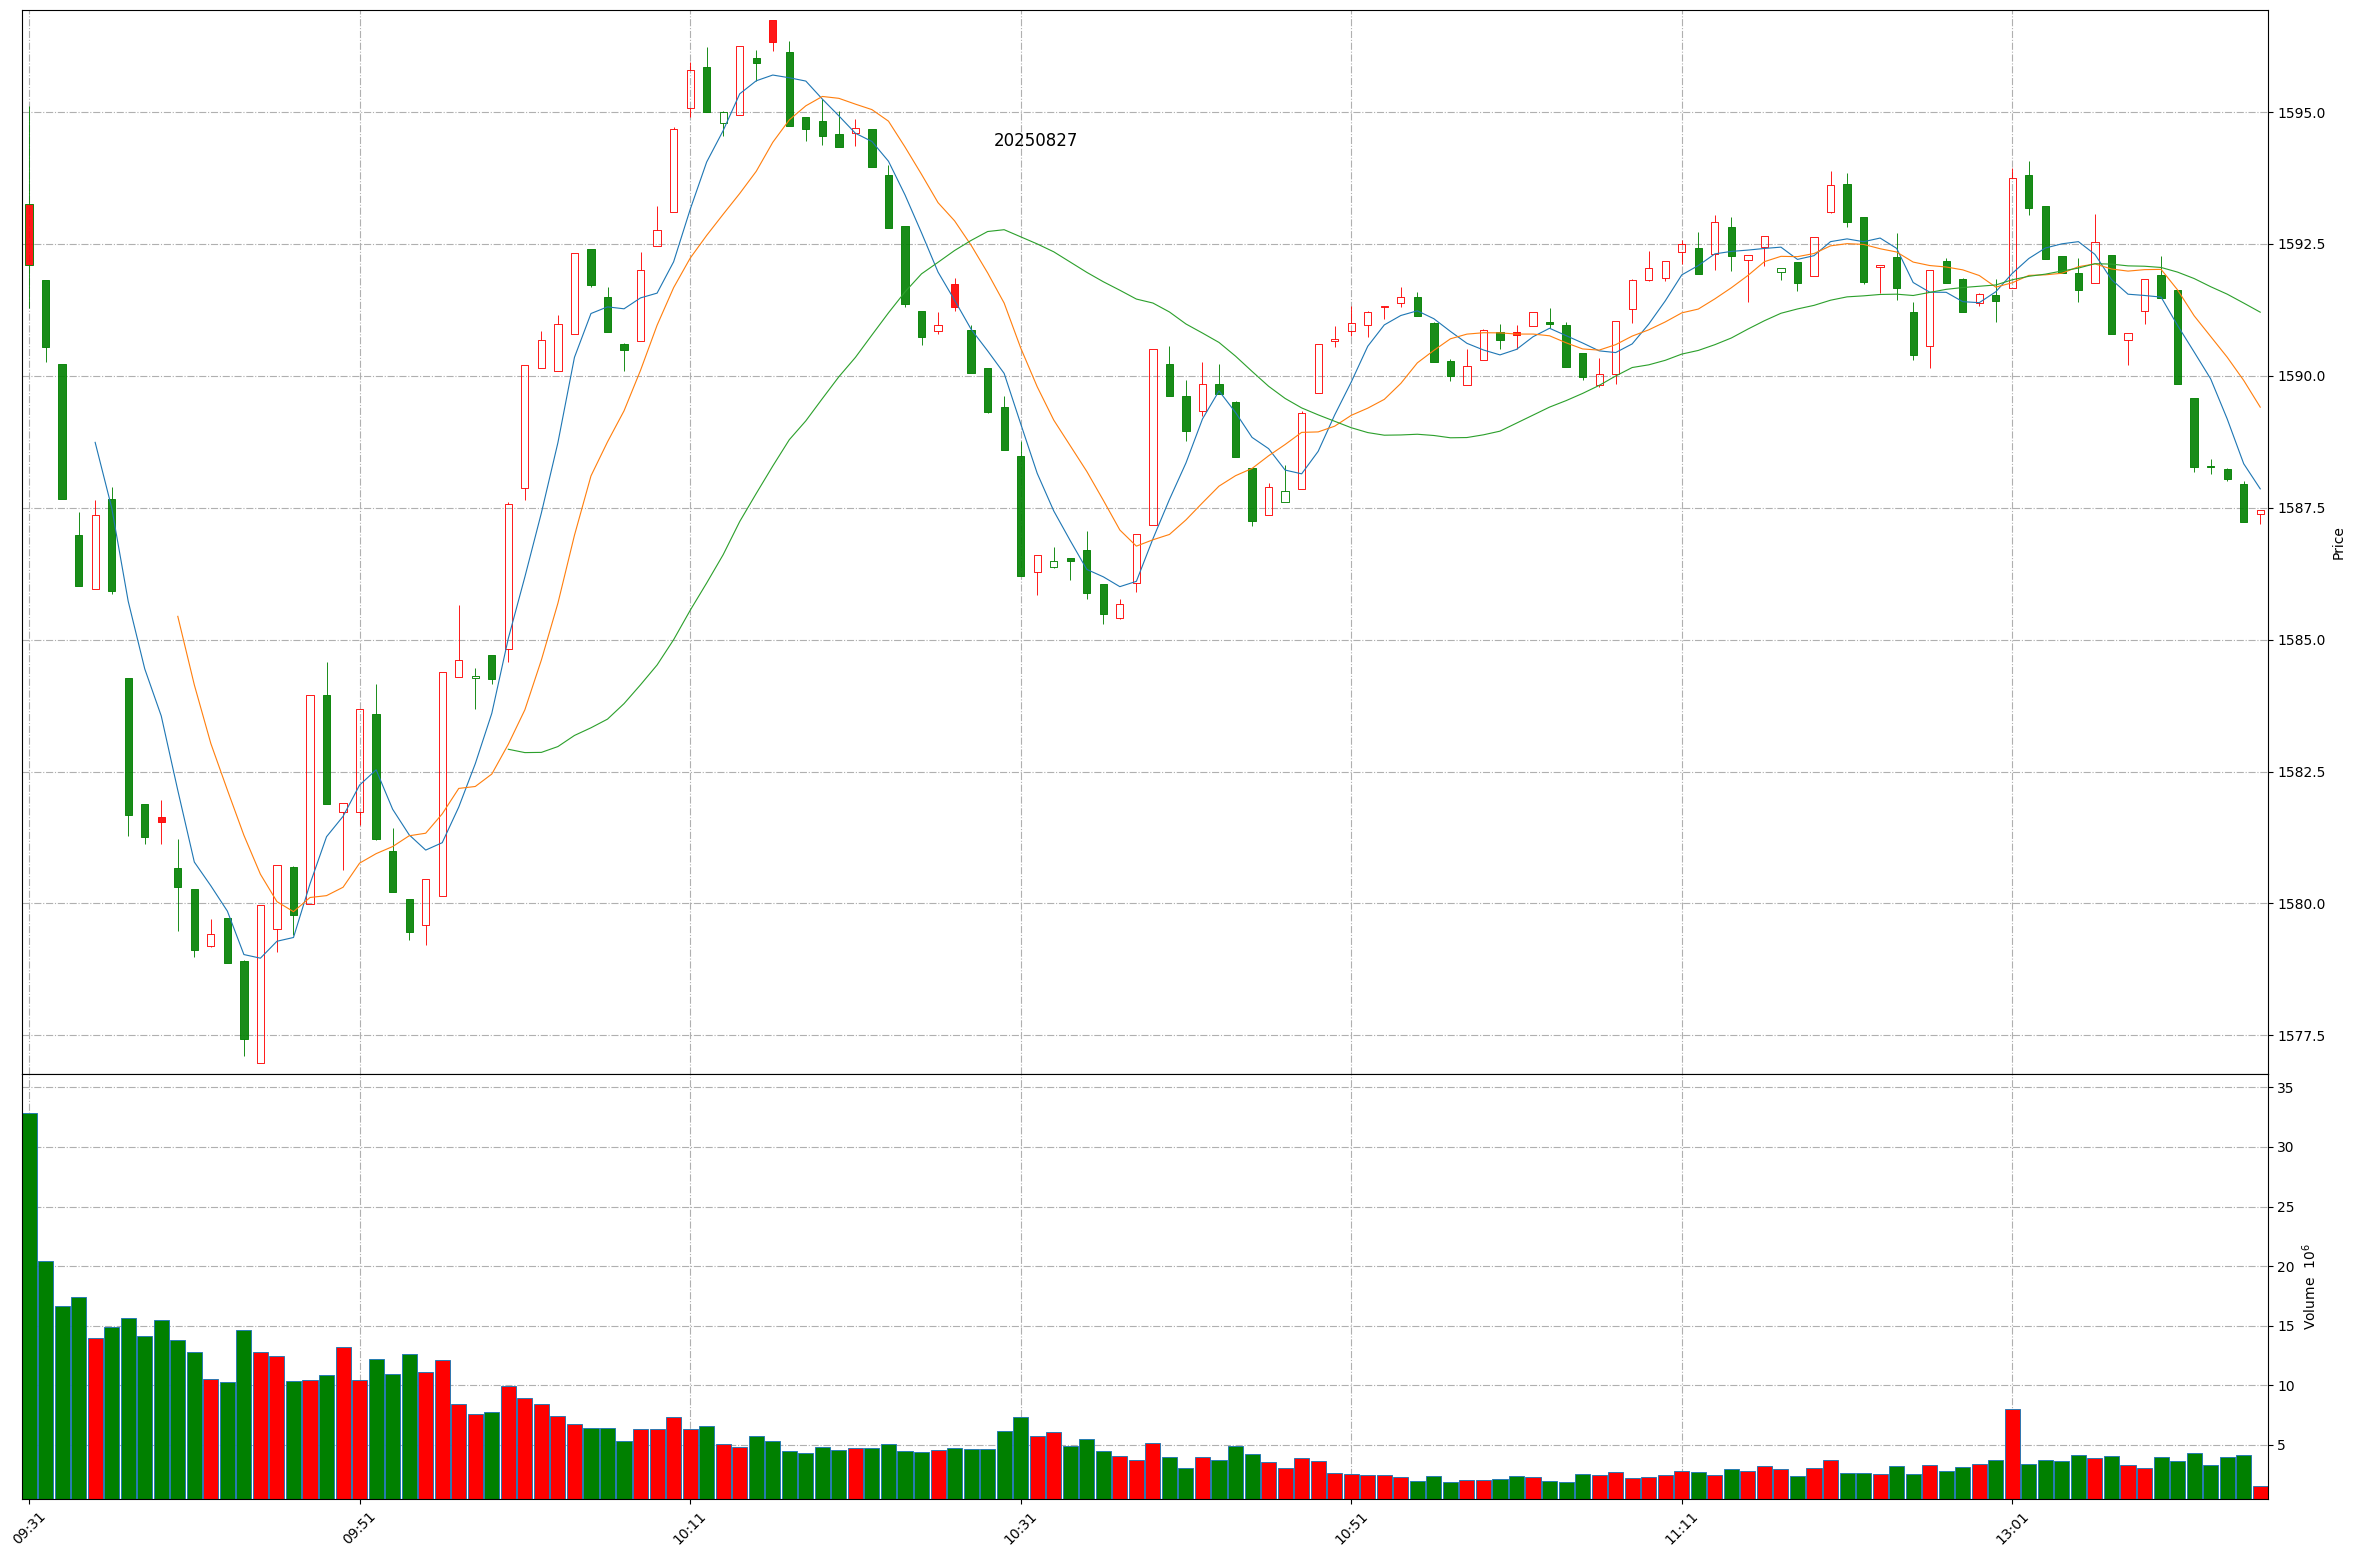
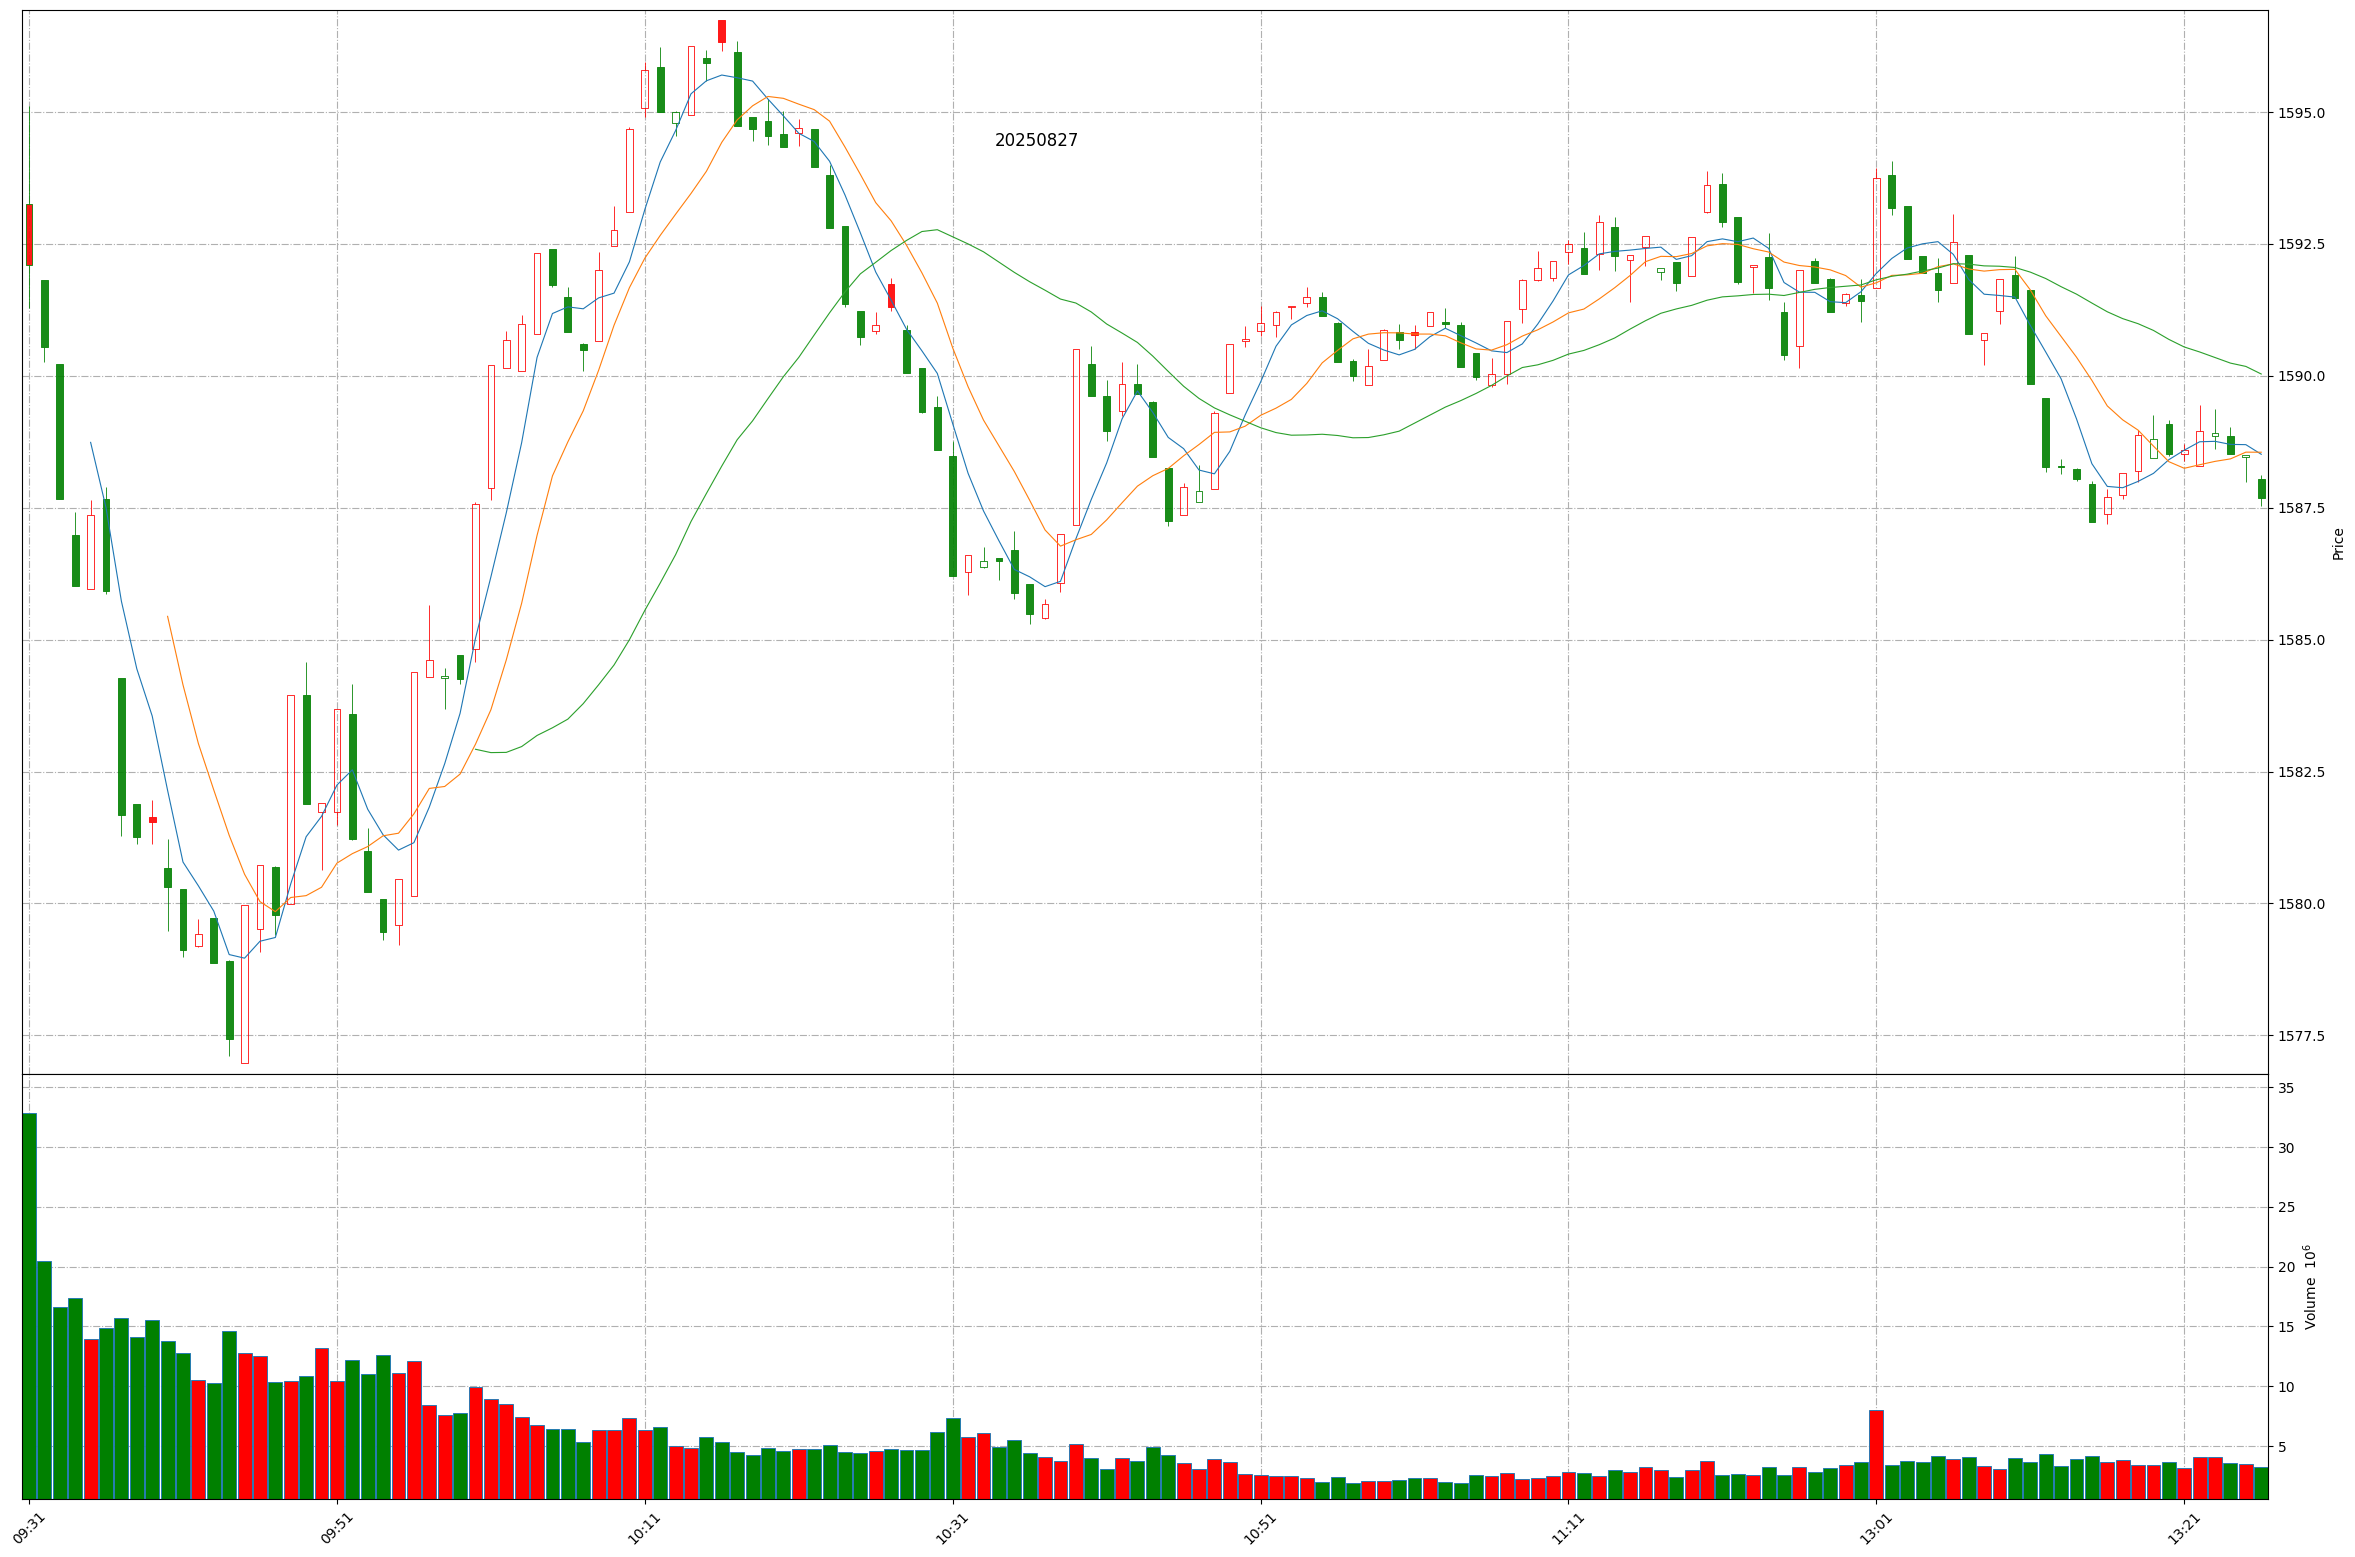
Github action update at 2025-08-27 13:26:11.

diff --git a/README.md b/README.md
@@ -1,11 +1,11 @@
 
 # Daily-A-share-market-quotes 每日 A 股指数（5min 更新）- 20250827
 
-### 上证指数 20250827 13:15
+### 上证指数 20250827 13:26
 ![](./fig/2025/8/20250827-sh000001.png)
 
-### 深证成指 20250827 13:15
+### 深证成指 20250827 13:26
 ![](./fig/2025/8/20250827-sz399001.png)
 
-### 北证50 20250827 13:15
+### 北证50 20250827 13:26
 ![](./fig/2025/8/20250827-bj899050.png)
